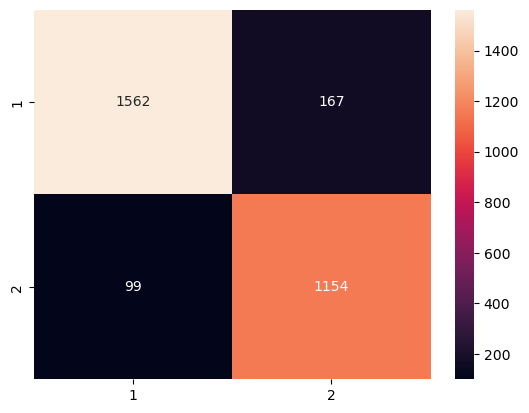
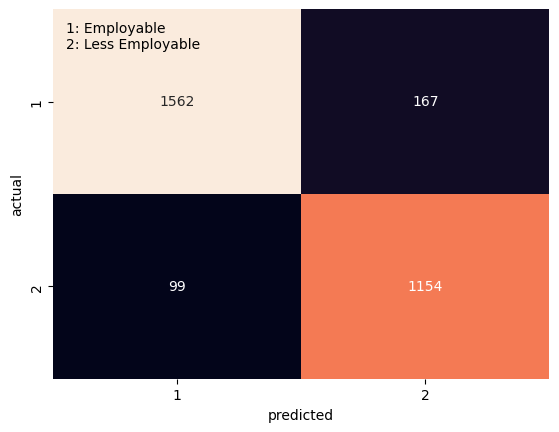
archiving repo

diff --git a/model.py b/model.py
@@ -1,47 +1,47 @@
 import numpy as np
 import seaborn as sns
-from kunikchon import get_df
 import matplotlib.pyplot as plt
+from imblearn.pipeline import Pipeline
 from imblearn.over_sampling import SMOTE
 from sklearn.preprocessing import StandardScaler
 from sklearn.ensemble import RandomForestClassifier
-from sklearn.model_selection import train_test_split
 from sklearn.metrics import confusion_matrix, classification_report
+from sklearn.model_selection import cross_validate, cross_val_predict
+
+from connections import get_dataframe
 
 
-df = get_df()
+df = get_dataframe() # database(mysql): datasets, table: `ph-student_employability-dataset`
 
+df['CLASS'] = df['CLASS'].map({'Employable': 1, 'LessEmployable': 2})
 
-df['CLASS'] = df['CLASS'].map({'Employable':1, 'LessEmployable':2})
-
-
-X = df.drop({'Name of Student', 'CLASS'}, axis=1)
+X = df.drop(['Name of Student', 'CLASS'], axis=1)
 y = df['CLASS']
 
-scaler = StandardScaler()
-X_scaled = scaler.fit_transform(X)
-X_train, X_test, y_train, y_test = train_test_split(X_scaled, y, test_size=0.2, random_state=42)
+pipeline = Pipeline([
+    ('scaler', StandardScaler()),
+    ('ismot', SMOTE(random_state=42)),
+    ('classifier', RandomForestClassifier(random_state=42))
+])
+
+cv_results = cross_validate(pipeline, X, y, cv=5, scoring=['accuracy', 'precision_macro', 'recall_macro', 'f1_macro'])
+
+print("Cross-validation results:", cv_results)
+print("Mean accuracy:", cv_results['test_accuracy'].mean())
+print("Mean precision:", cv_results['test_precision_macro'].mean())
+print("Mean recall:", cv_results['test_recall_macro'].mean())
+print("Mean F1-score:", cv_results['test_f1_macro'].mean())
 
 
-smote = SMOTE(random_state=42)
-X_train_b, y_train_b = smote.fit_resample(X_train, y_train)
+y_pred = cross_val_predict(pipeline, X, y, cv=5)
+cm = confusion_matrix(y, y_pred)
 
+labels = np.unique(y) 
+print('classification_report:\n', classification_report(y, y_pred))
+sns.heatmap(cm, annot=True, fmt='d', xticklabels=labels, yticklabels=labels, cbar=0)
 
-rf_class_model = RandomForestClassifier()
-rf_class_model.fit(X_train_b, y_train_b)
-y_pred = rf_class_model.predict(X_test)
-
-
-cr = classification_report(y_test, y_pred); print(cr)
-conf = confusion_matrix(y_test, y_pred)
-
-
-index =  np.unique(y)
-
-sns.heatmap(conf, annot=True, xticklabels=index, yticklabels=index, fmt='d')
-plt.xlabel('predicted')
+comment = '1: Employable\n2: Less Employable'
+plt.text(0.05, 0.2, comment, wrap=True, horizontalalignment='left', fontsize=10)
 plt.ylabel('actual')
-plt.title('1-employable, 2-lessEmployable ph students')
+plt.xlabel('predicted')
 plt.show()
-
-
